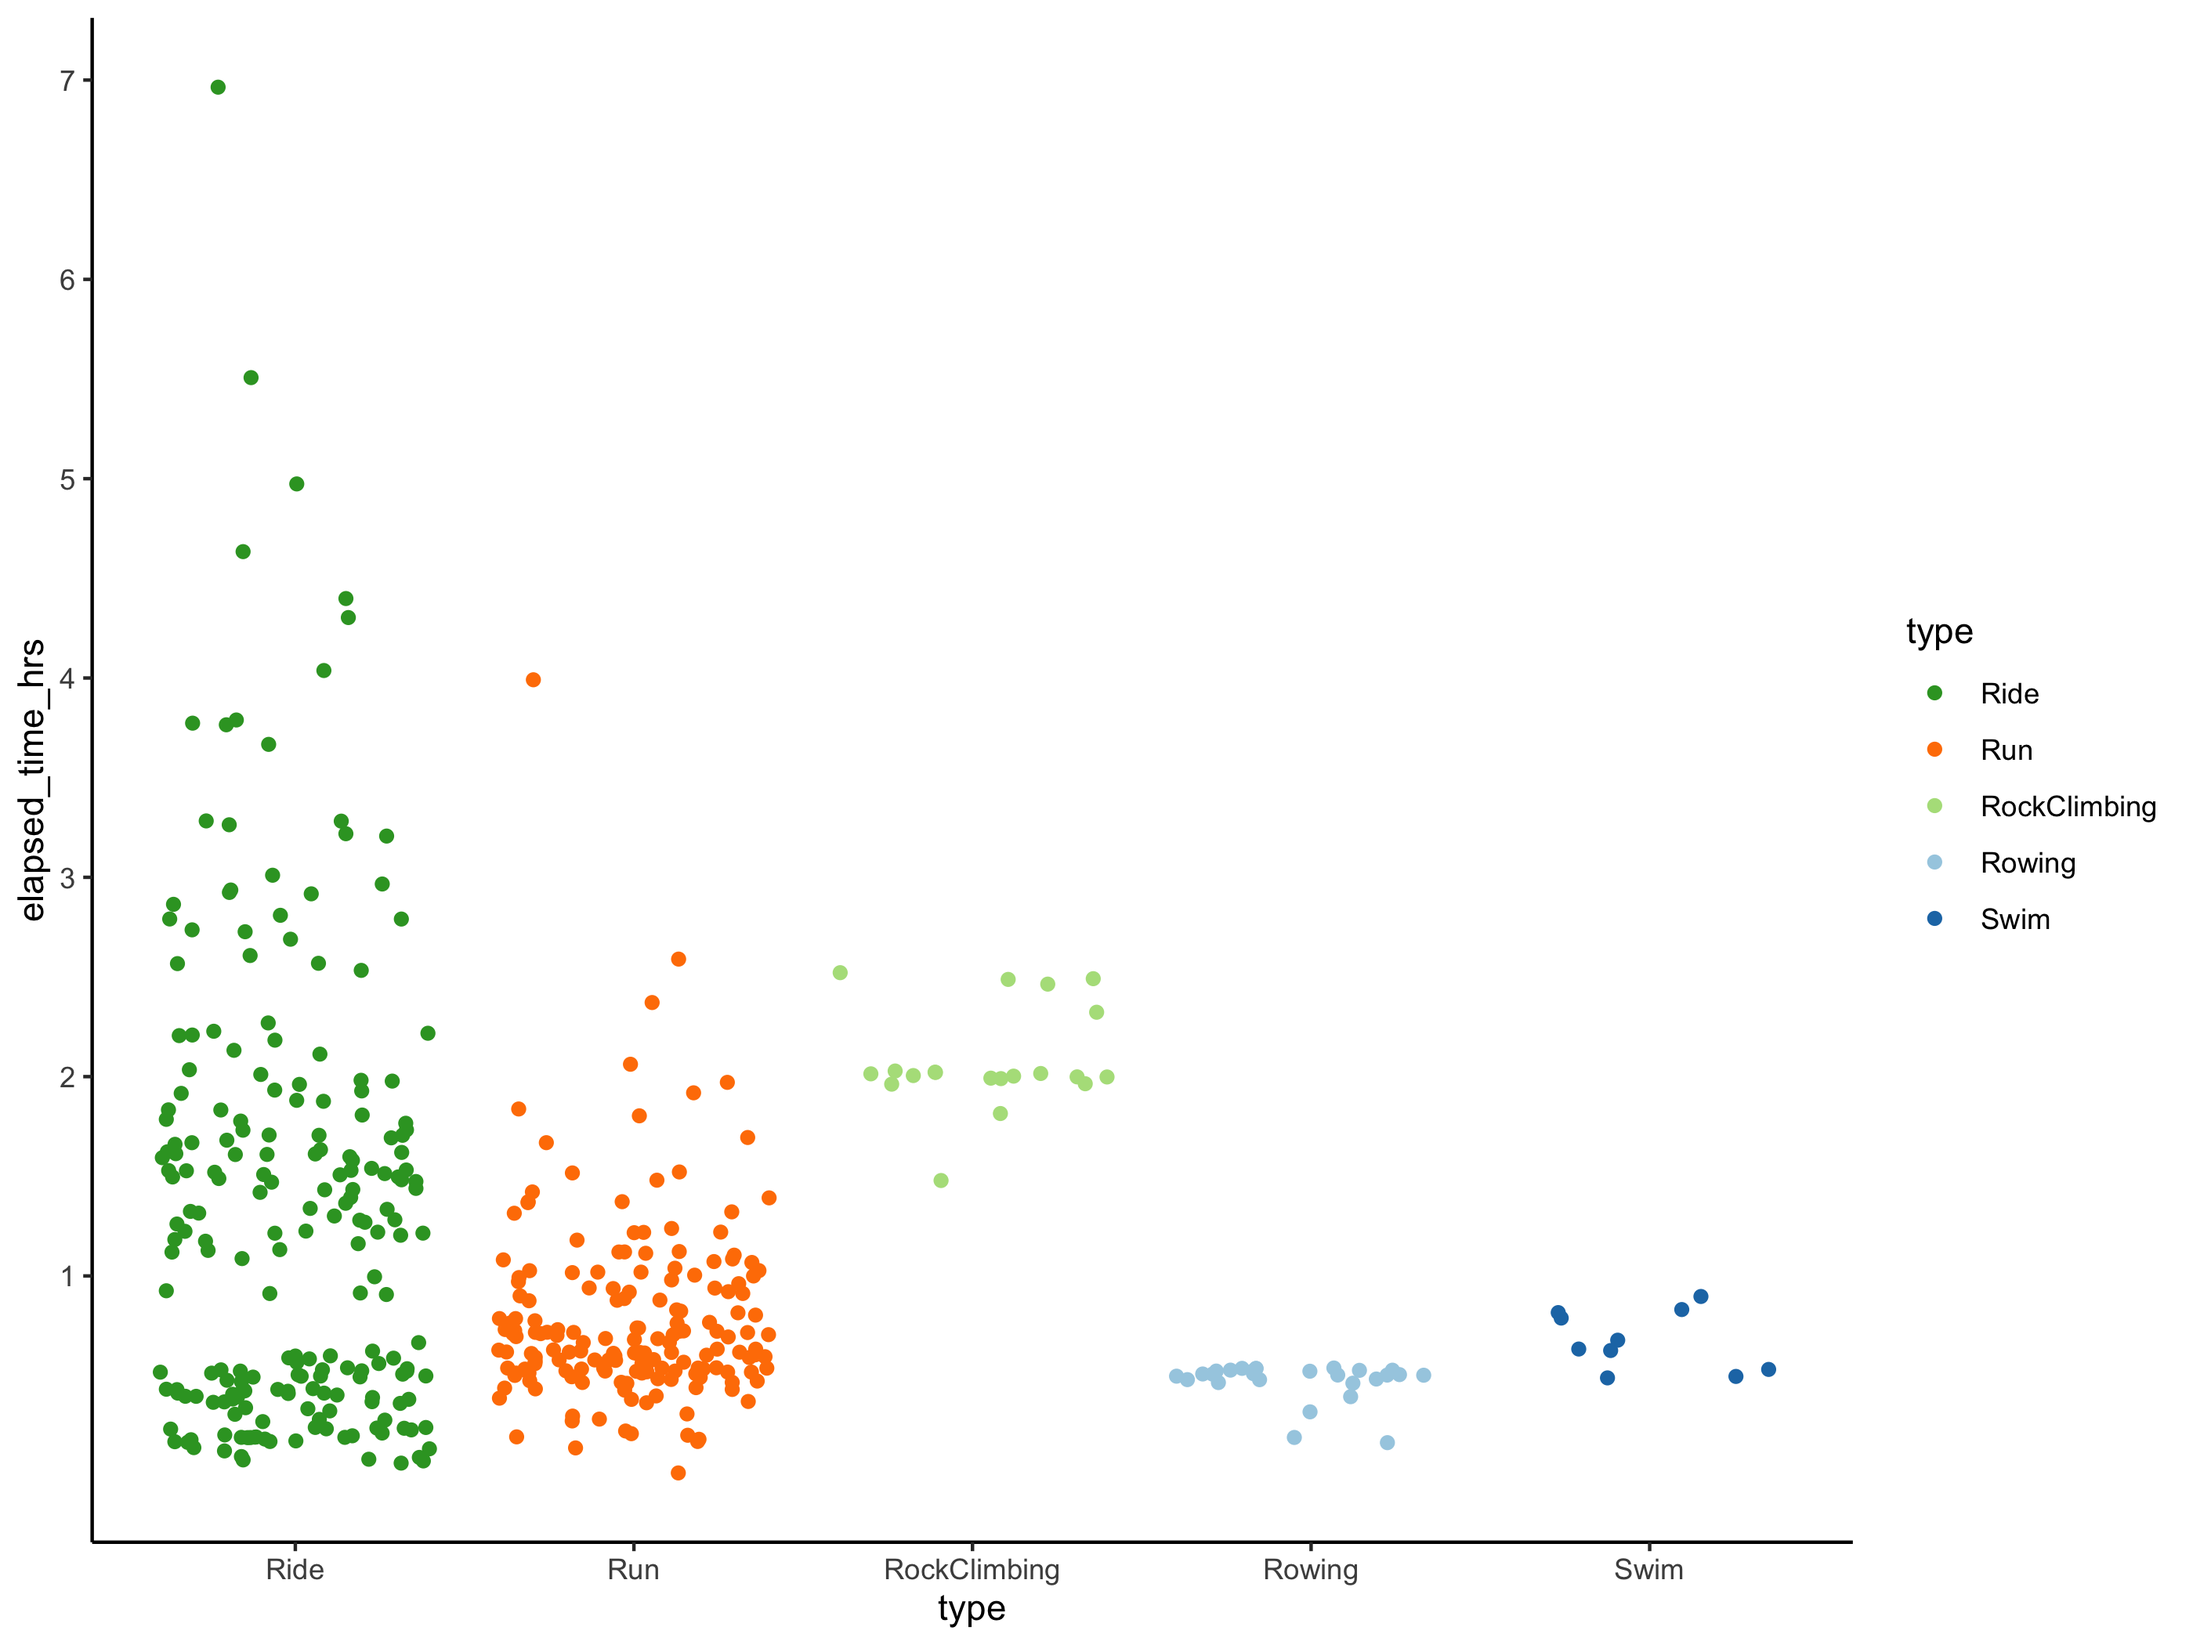
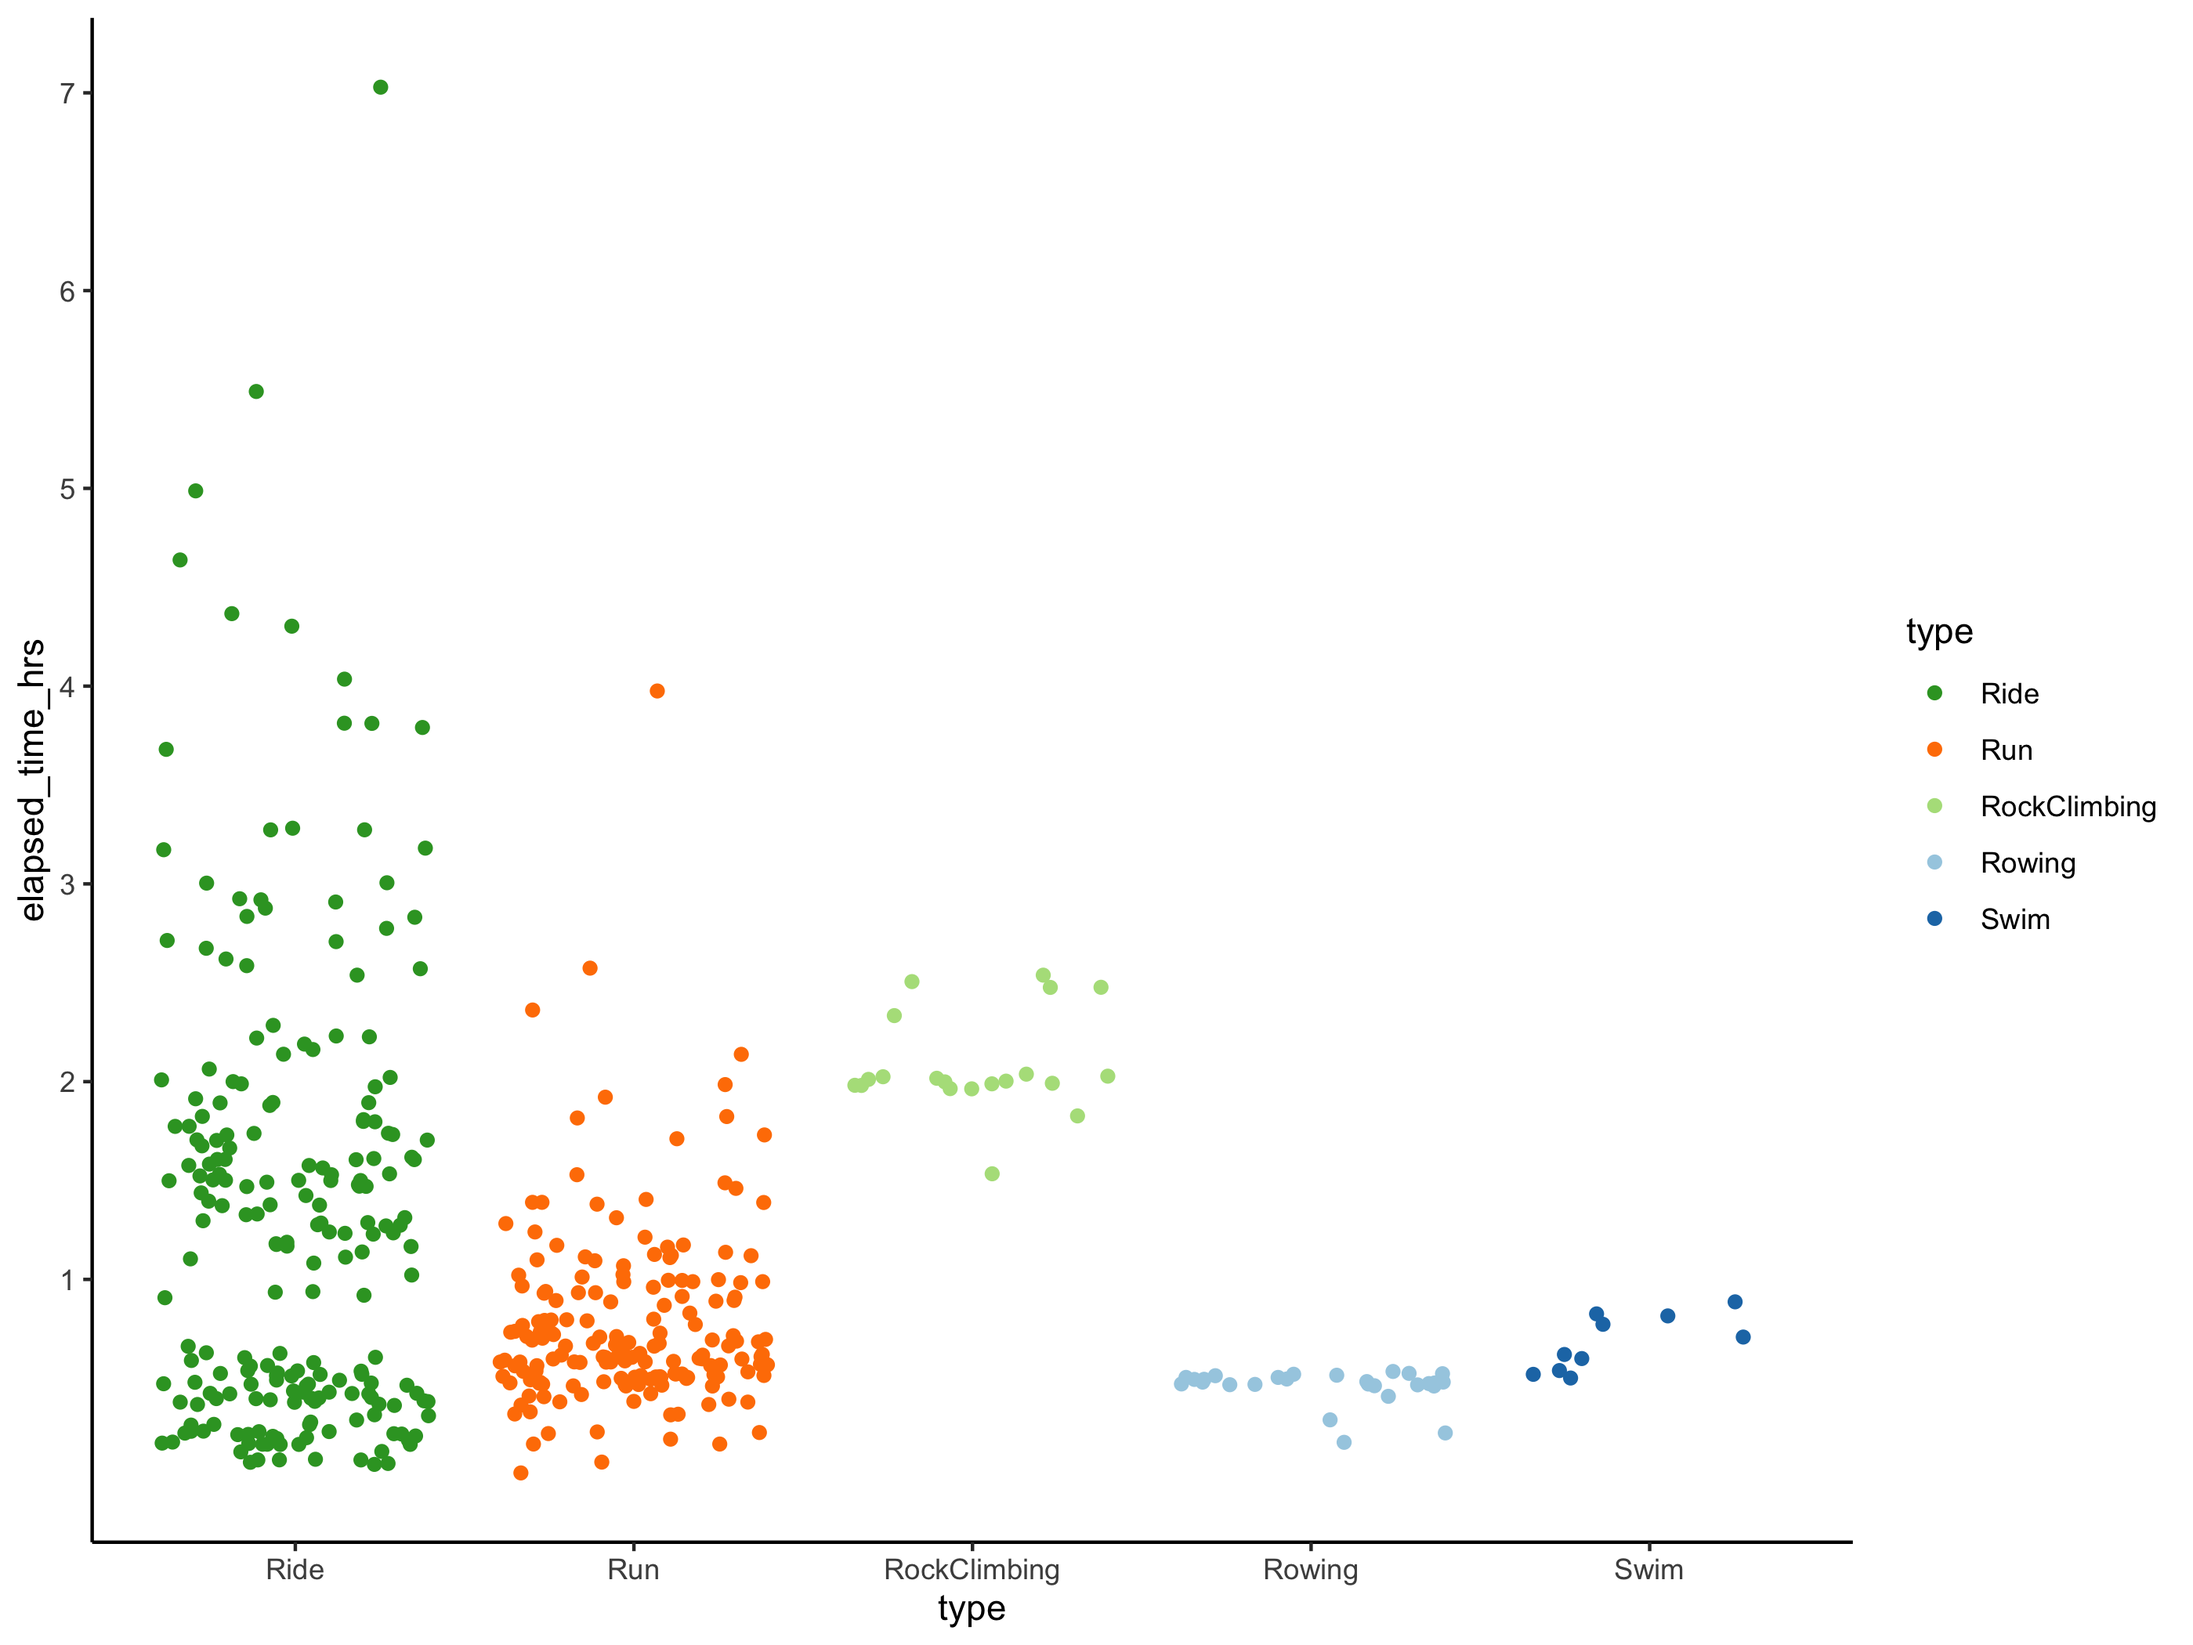
Mess with jitter plots

diff --git a/figures/README.md b/figures/README.md
@@ -14,11 +14,15 @@
 
 ![](box_weekday_dist.png)
 
+![](box_weekday_dist_wrap.png)
+
 ![](box_weekday_time.png)
 
 ![](dag.svg)
 
 ![](jitter_type_time.png)
+
+![](jitter_weekday_dist_grid.png)
 
 ![](line_all.png)
 
